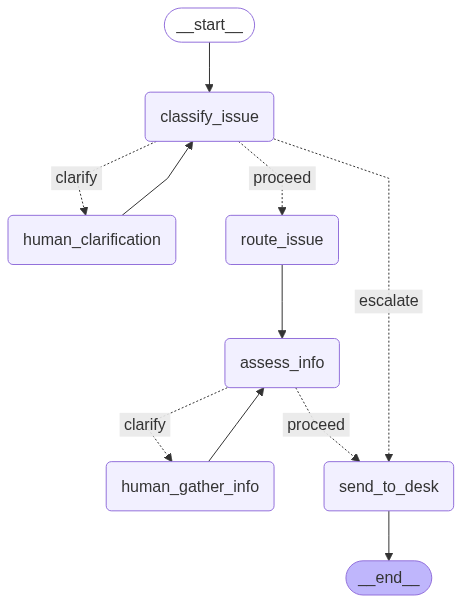
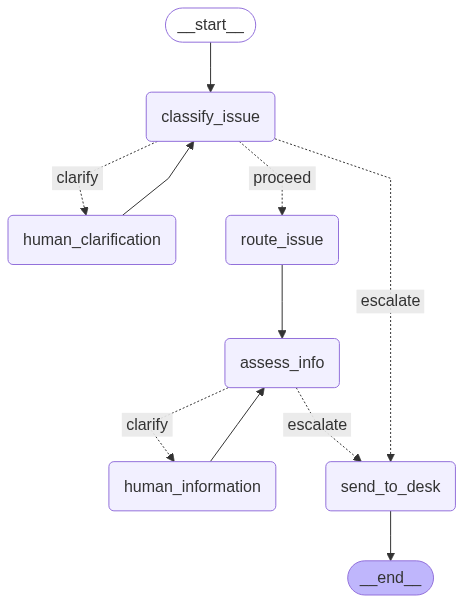
rewrite assess_info to work like classify_issue

diff --git a/backend/src/workflows/support_desk/nodes/assess_info.py b/backend/src/workflows/support_desk/nodes/assess_info.py
@@ -50,6 +50,27 @@ async def assess_info_node(state: SupportDeskState) -> SupportDeskState:
     # Build conversation history for context
     conversation_history = build_conversation_history(messages)
     
+    # Check if we've exhausted gathering rounds
+    max_rounds = MAX_GATHERING_ROUNDS
+    force_proceed = gathering_round >= max_rounds
+    
+    # Set prompt components based on whether we need to force assessment
+    if force_proceed:
+        task_instruction = "Call the {tool_name} tool to assess completeness with the information available."
+        additional_context = """
+You MUST assess the ticket with the information available as we've reached the maximum gathering rounds.
+Set needs_more_info=False as we cannot ask more questions.
+"""
+    else:
+        task_instruction = """
+If you have sufficient information to create a comprehensive ticket, call the {tool_name} tool with needs_more_info=False.
+
+If you do NOT have sufficient information, set needs_more_info=True so that the next step can ask the user for the most critical missing detail.
+
+As part of this agentic system, you have a maximum of {max_gathering_rounds} total rounds to gather information.
+"""
+        additional_context = ""
+    
     # Set up the tool for structured output
     tool_name = "check_completeness"
     tools = [pydantic_to_openai_tool(InfoCompletenessOutput, tool_name)]
@@ -65,9 +86,11 @@ async def assess_info_node(state: SupportDeskState) -> SupportDeskState:
             support_team=assigned_team,
             gathering_round=gathering_round,
             conversation_history=conversation_history,
-            max_gathering_rounds=MAX_GATHERING_ROUNDS,
+            max_gathering_rounds=max_rounds,
             required_info_categories=format_required_info_categories(),
             category_specific_priorities=format_category_specific_priorities(issue_category),
+            task_instruction=task_instruction,
+            additional_context=additional_context,
             tool_name=tool_name
         )
         
@@ -94,12 +117,20 @@ async def assess_info_node(state: SupportDeskState) -> SupportDeskState:
             # Update gathering state
             if "gathering" not in state:
                 state["gathering"] = {}
-            state["gathering"]["needs_more_info"] = completeness_output.needs_more_info
+            
+            # Override needs_more_info if we've hit the limit
+            if force_proceed and completeness_output.needs_more_info:
+                logger.info("→ force proceed: overriding needs_more_info to False")
+                state["gathering"]["needs_more_info"] = False
+            else:
+                state["gathering"]["needs_more_info"] = completeness_output.needs_more_info
+            
             state["gathering"]["info_completeness_confidence"] = completeness_output.confidence
             state["gathering"]["missing_categories"] = completeness_output.missing_categories
+            state["gathering"]["user_requested_escalation"] = completeness_output.user_requested_escalation
             
             # Check if we need to generate a question (like classify_issue does)
-            if completeness_output.needs_more_info:
+            if completeness_output.needs_more_info and not force_proceed and not completeness_output.user_requested_escalation:
                 logger.info("→ needs more info, generating question")
                 
                 # Generate targeted question with streaming (similar to classify_issue)
@@ -154,6 +185,8 @@ async def assess_info_node(state: SupportDeskState) -> SupportDeskState:
                         "content": fallback_question
                     })
                     logger.info("→ used fallback question due to error")
+            elif completeness_output.user_requested_escalation:
+                logger.info("→ user requested escalation")
             else:
                 logger.info("→ sufficient info available")
             
@@ -174,16 +207,24 @@ async def assess_info_node(state: SupportDeskState) -> SupportDeskState:
     return state
 
 
-def should_continue_to_send(state: SupportDeskState) -> Literal["proceed", "clarify"]:
+def should_continue_to_send(state: SupportDeskState) -> Literal["proceed", "clarify", "escalate"]:
     """
-    Determine if we should proceed to send to desk or clarify with more info.
+    Determine if we should proceed to send to desk, clarify with more info, or escalate.
     
     Args:
         state: Current workflow state
         
     Returns:
-        "proceed" if sufficient info exists, "clarify" if need to gather more
+        "escalate" if user requested escalation or force proceed
+        "proceed" if sufficient info exists
+        "clarify" if need to gather more
     """
+    # Check for user escalation/force proceed request
+    user_requested_escalation = state.get("gathering", {}).get("user_requested_escalation", False)
+    if user_requested_escalation:
+        logger.info("→ user requested escalation")
+        return "escalate"
+    
     needs_more = state.get("gathering", {}).get("needs_more_info", True)
     gathering_round = state.get("gathering", {}).get("gathering_round", 1)
     max_rounds = state.get("gathering", {}).get("max_gathering_rounds", MAX_GATHERING_ROUNDS)

diff --git a/backend/src/workflows/support_desk/prompts/has_sufficient_info_prompt.py b/backend/src/workflows/support_desk/prompts/has_sufficient_info_prompt.py
@@ -9,46 +9,75 @@ from ..business_context import MAX_GATHERING_ROUNDS, REQUIRED_INFO_CATEGORIES, C
 
 # Has sufficient info prompt using tool calling
 HAS_SUFFICIENT_INFO_PROMPT = """
-You are a ServiceHub IT support analyst assessing if enough information has been gathered to create a comprehensive support ticket.
+# Objective
+
+You are part of an agentic system for IT Support Desk tasked with assessing if enough information has been gathered to create a comprehensive support ticket.
 
 {servicehub_support_ticket_policy}
 
-CURRENT TICKET CONTEXT:
-Issue Category: {issue_category}
-Issue Priority: {issue_priority}
-Assigned Team: {support_team}
-Gathering Round: {gathering_round}
-Conversation History: {conversation_history}
+# Task
+
+{task_instruction}
+
+# Context
+
+This is gathering round #{gathering_round} of {max_gathering_rounds}
+
+{additional_context}
+
+## Current Ticket State
+- Issue Category: {issue_category}
+- Issue Priority: {issue_priority}
+- Assigned Team: {support_team}
+
+## Escalation Detection
+
+First, check if the user is requesting escalation with phrases like:
+- "just raise the ticket"
+- "connect me to a human"
+- "stop asking questions"
+- "I don't have time for this"
+- "let me speak to someone"
+- "escalate this"
+
+If escalation is detected, set `user_requested_escalation=True` and set needs_more_info=False.
+
+## Assessment Logic
+
+If NOT escalating, determine if you have enough information to create a comprehensive ticket.
 
 {required_info_categories}
 
 {category_specific_priorities}
 
-IMPORTANT: Check if the user is requesting to escalate or stop information gathering:
-- "just raise the ticket"
-- "connect me to a human" / "send me to a human" / "human please"
-- "stop asking questions"
-- Any clear indication of frustration with the questioning process
+Consider:
+- Whether critical information is missing for proper ticket creation
+- Issue priority and SLAs (P1 issues may need less detail to start resolution)
+- User location, department, role (if relevant to issue)
 
-If escalation is detected, you MUST set needs_more_info=False regardless of missing information.
+## Decision Summary
 
-ASSESSMENT CRITERIA:
-- Set needs_more_info=True if critical information is missing for ServiceHub's procedures
-- Set needs_more_info=False if you have enough to create a meaningful ticket following ServiceHub standards
-- After {max_gathering_rounds} rounds of gathering, be more lenient (colleagues get fatigued)
-- Consider issue priority and ServiceHub SLAs - P1 issues may need less detail to start resolution
-- Consider ServiceHub-specific requirements (location, department, systems)
+- If user_requested_escalation=True: Set needs_more_info=False, proceed with available info
+- If needs_more_info=True: Missing categories should be listed, response explains what's needed
+- If sufficient info exists: Set needs_more_info=False, confidence should be high
 
-EXAMPLES OF SUFFICIENT INFORMATION FOR SERVICEHUB:
+## Examples of Sufficient Information
+
 - "Sales colleagues can't access Salesforce CRM - getting 'service unavailable' error. This is blocking our quarterly deal closure calls."
-  → Usually sufficient: specific ServiceHub system, error type, business impact
+  → Sufficient: specific system, error type, business impact
 
-- "I can't log in to the ServiceHub Portal" + "started this morning" + "error says password invalid" + "working from Manchester office"
+- "I can't log in to the Portal" + "started this morning" + "error says password invalid" + "working from Manchester office"
   → Sufficient: system, timeline, specific error, location
 
-EXAMPLES NEEDING MORE INFO:
-- "Something is broken" → needs what ServiceHub system, what's happening
-- "The Portal is slow" → needs specific performance issue, when it started, which Portal function
+## Examples Needing More Info
 
-Use the {tool_name} tool to assess completeness for ServiceHub procedures.
+- "Something is broken" → needs what system, what's happening
+- "The Portal is slow" → needs specific performance issue, when it started, which function
+
+This is the full conversation history between the IT Support Desk agentic system until now:
+\"\"\"
+{conversation_history}
+\"\"\"
+
+Use the {tool_name} tool to provide your assessment.
 """

diff --git a/backend/src/workflows/support_desk/workflow.py b/backend/src/workflows/support_desk/workflow.py
@@ -15,7 +15,7 @@ from .nodes.human_clarification import human_clarification_node
 from .nodes.classify_issue import classify_issue_node, should_continue_to_route
 from .nodes.route_issue import route_issue_node
 from .nodes.assess_info import assess_info_node, should_continue_to_send
-from .nodes.human_gather_info import human_gather_info_node
+from .nodes.human_information import human_information_node
 from .nodes.send_to_desk import send_to_desk_node
 
 logger = logging.getLogger(__name__)
@@ -32,8 +32,8 @@ def create_workflow(checkpointer, draw_diagram: bool = True):
     
     Enhanced Flow with Info Assessment:
     classify_issue → [sufficient info?] → route_issue → assess_info
-         ↑               [no]                                ↓ [clarify]    ↓ [proceed]
-         └─── human_clarification ←──┘      human_gather_info ←──┘    send_to_desk
+         ↑               [no]                                ↓ [clarify]    ↓ [proceed/escalate]
+         └─── human_clarification ←──┘      human_information ←──┘    send_to_desk
                                                            ↓ [collected response]
                                                       assess_info
     
@@ -43,8 +43,8 @@ def create_workflow(checkpointer, draw_diagram: bool = True):
     - human_clarification collects user details and returns to classification
     - route_issue assigns support team once classification is confident
     - assess_info determines if enough info exists and generates questions when needed
-    - human_gather_info collects user responses (HITL)
-    - Loop: user responds → assess_info → human_gather_info (max 3 rounds)
+    - human_information collects user responses (HITL)
+    - Loop: user responds → assess_info → human_information (max 3 rounds)
     - send_to_desk creates comprehensive ticket once information is complete
     
     This approach provides natural conversation rhythm with human-in-the-loop interactions
@@ -68,7 +68,7 @@ def create_workflow(checkpointer, draw_diagram: bool = True):
     workflow.add_node("classify_issue", classify_issue_node)
     workflow.add_node("route_issue", route_issue_node)
     workflow.add_node("assess_info", assess_info_node)
-    workflow.add_node("human_gather_info", human_gather_info_node)
+    workflow.add_node("human_information", human_information_node)
     workflow.add_node("send_to_desk", send_to_desk_node)
     
     # Set entry point to classification
@@ -91,18 +91,19 @@ def create_workflow(checkpointer, draw_diagram: bool = True):
     # Continue with info assessment after routing
     workflow.add_edge("route_issue", "assess_info")
     
-    # Conditional edge from info assessment: either create ticket or gather more info
+    # Conditional edge from info assessment: proceed, clarify, or escalate
     workflow.add_conditional_edges(
         "assess_info",
         should_continue_to_send,
         {
             "proceed": "send_to_desk",            # Assessment complete - proceed to send
-            "clarify": "human_gather_info"       # Need more information - question generated in assess
+            "clarify": "human_information",       # Need more information - question generated in assess
+            "escalate": "send_to_desk"           # User requested escalation - force proceed
         }
     )
     
     # After collecting user response, assess info again
-    workflow.add_edge("human_gather_info", "assess_info")
+    workflow.add_edge("human_information", "assess_info")
     
     workflow.add_edge("send_to_desk", END)
     

diff --git a/backend/src/workflows/support_desk/nodes/human_information.py b/backend/src/workflows/support_desk/nodes/human_information.py
@@ -1,8 +1,8 @@
 """
-Human Gather Info node for Support Desk workflow - HITL diamond node.
+Human Information node for Support Desk workflow - HITL diamond node.
 
 This node represents the human interaction point for collecting additional information
-after assess_info has generated and streamed the gathering question.
+after assess_info has generated and streamed the information gathering question.
 """
 import logging
 from copy import deepcopy
@@ -13,7 +13,7 @@ from langgraph.types import interrupt
 logger = logging.getLogger(__name__)
 
 
-async def human_gather_info_node(state: SupportDeskState) -> SupportDeskState:
+async def human_information_node(state: SupportDeskState) -> SupportDeskState:
     """
     Human interaction node (diamond) that collects additional information.
     
@@ -29,7 +29,7 @@ async def human_gather_info_node(state: SupportDeskState) -> SupportDeskState:
     state = deepcopy(state)
     
     # Log node entry
-    logger.info("→ human_gather_info: waiting for user response")
+    logger.info("→ human_information: waiting for user response")
     
     # Get current gathering round
     gathering_round = state.get("gathering", {}).get("gathering_round", 1)

diff --git a/backend/src/workflows/support_desk/nodes/__init__.py b/backend/src/workflows/support_desk/nodes/__init__.py
@@ -8,7 +8,7 @@ from .human_clarification import human_clarification_node
 from .classify_issue import classify_issue_node, should_continue_to_route
 from .route_issue import route_issue_node
 from .assess_info import assess_info_node, should_continue_to_send
-from .human_gather_info import human_gather_info_node
+from .human_information import human_information_node
 from .send_to_desk import send_to_desk_node
 
 __all__ = [
@@ -18,6 +18,6 @@ __all__ = [
     "route_issue_node",
     "assess_info_node",
     "should_continue_to_send",
-    "human_gather_info_node",
+    "human_information_node",
     "send_to_desk_node"
 ]

diff --git a/backend/src/workflows/support_desk/models/info_completeness_output.py b/backend/src/workflows/support_desk/models/info_completeness_output.py
@@ -25,6 +25,11 @@ class InfoCompletenessOutput(BaseModel):
         description="Categories of information still needed (e.g., 'device_details', 'timeline', 'user_impact')"
     )
     
+    user_requested_escalation: bool = Field(
+        default=False,
+        description="True if user explicitly requested to escalate or force proceed (e.g., 'just create the ticket', 'stop asking questions')"
+    )
+    
     reasoning: str = Field(
         description="Brief explanation of why more info is/isn't needed"
     )

diff --git a/backend/src/workflows/support_desk/README.md b/backend/src/workflows/support_desk/README.md
@@ -31,7 +31,7 @@ graph TD;
     human_clarification(human_clarification)
     route_issue(route_issue)
     assess_info(assess_info)
-    human_gather_info(human_gather_info)
+    human_information(human_information)
     send_to_desk(send_to_desk)
     __end__([<p>__end__</p>]):::last
 
@@ -42,8 +42,9 @@ graph TD;
     human_clarification --> classify_issue;
     route_issue --> assess_info;
     assess_info -. &nbsp;proceed&nbsp; .-> send_to_desk;
-    assess_info -. &nbsp;clarify&nbsp; .-> human_gather_info;
-    human_gather_info --> assess_info;
+    assess_info -. &nbsp;clarify&nbsp; .-> human_information;
+    assess_info -. &nbsp;escalate&nbsp; .-> send_to_desk;
+    human_information --> assess_info;
     send_to_desk --> __end__;
     
     classDef default stroke:#f2f0ff,line-height:1.2
@@ -81,7 +82,7 @@ Contains the implementation of each node in the workflow:
 - `human_clarification.py`: Lightweight interrupt node for collecting user clarifications
 - `route_issue.py`: Internal routing logic that assigns issues to support teams
 - `assess_info.py`: Assesses information completeness and generates targeted questions
-- `human_gather_info.py`: Lightweight interrupt node for collecting additional information
+- `human_information.py`: Lightweight interrupt node for collecting additional information
 - `send_to_desk.py`: Creates tickets and formats final responses
 
 ### [prompts/](prompts/)

diff --git a/backend/src/workflows/support_desk/nodes/README.md b/backend/src/workflows/support_desk/nodes/README.md
@@ -99,7 +99,8 @@ Internal routing node that assigns issues to appropriate support teams based on 
 graph TD
     A[route_issue] --> B[assess_info]
     B -. proceed .-> C[send_to_desk]
-    B -. clarify .-> D[human_gather_info]
+    B -. clarify .-> D[human_information]
+    B -. escalate .-> C
     D --> B
     
     classDef default stroke:#f2f0ff,line-height:1.2
@@ -108,7 +109,7 @@ graph TD
     class A,C,D context
 ```
 
-Assesses information completeness and generates targeted questions when needed. Implements conditional routing like classify_issue.
+Assesses information completeness and generates targeted questions when needed. Implements **conditional routing** - it can proceed to send, ask for clarification, or escalate based on analysis.
 
 **Reads from state:**
 - `issue_category` - Issue type for assessment criteria
@@ -120,11 +121,11 @@ Assesses information completeness and generates targeted questions when needed. 
 - `missing_categories` - Specific info categories needed
 - `messages` - Updated with questions when needed
 
-### [human_gather_info.py](human_gather_info.py)
+### [human_information.py](human_information.py)
 
 ```mermaid
 graph TD
-    A[assess_info] --> B[human_gather_info]
+    A[assess_info] --> B[human_information]
     B --> A
     
     classDef default stroke:#f2f0ff,line-height:1.2
